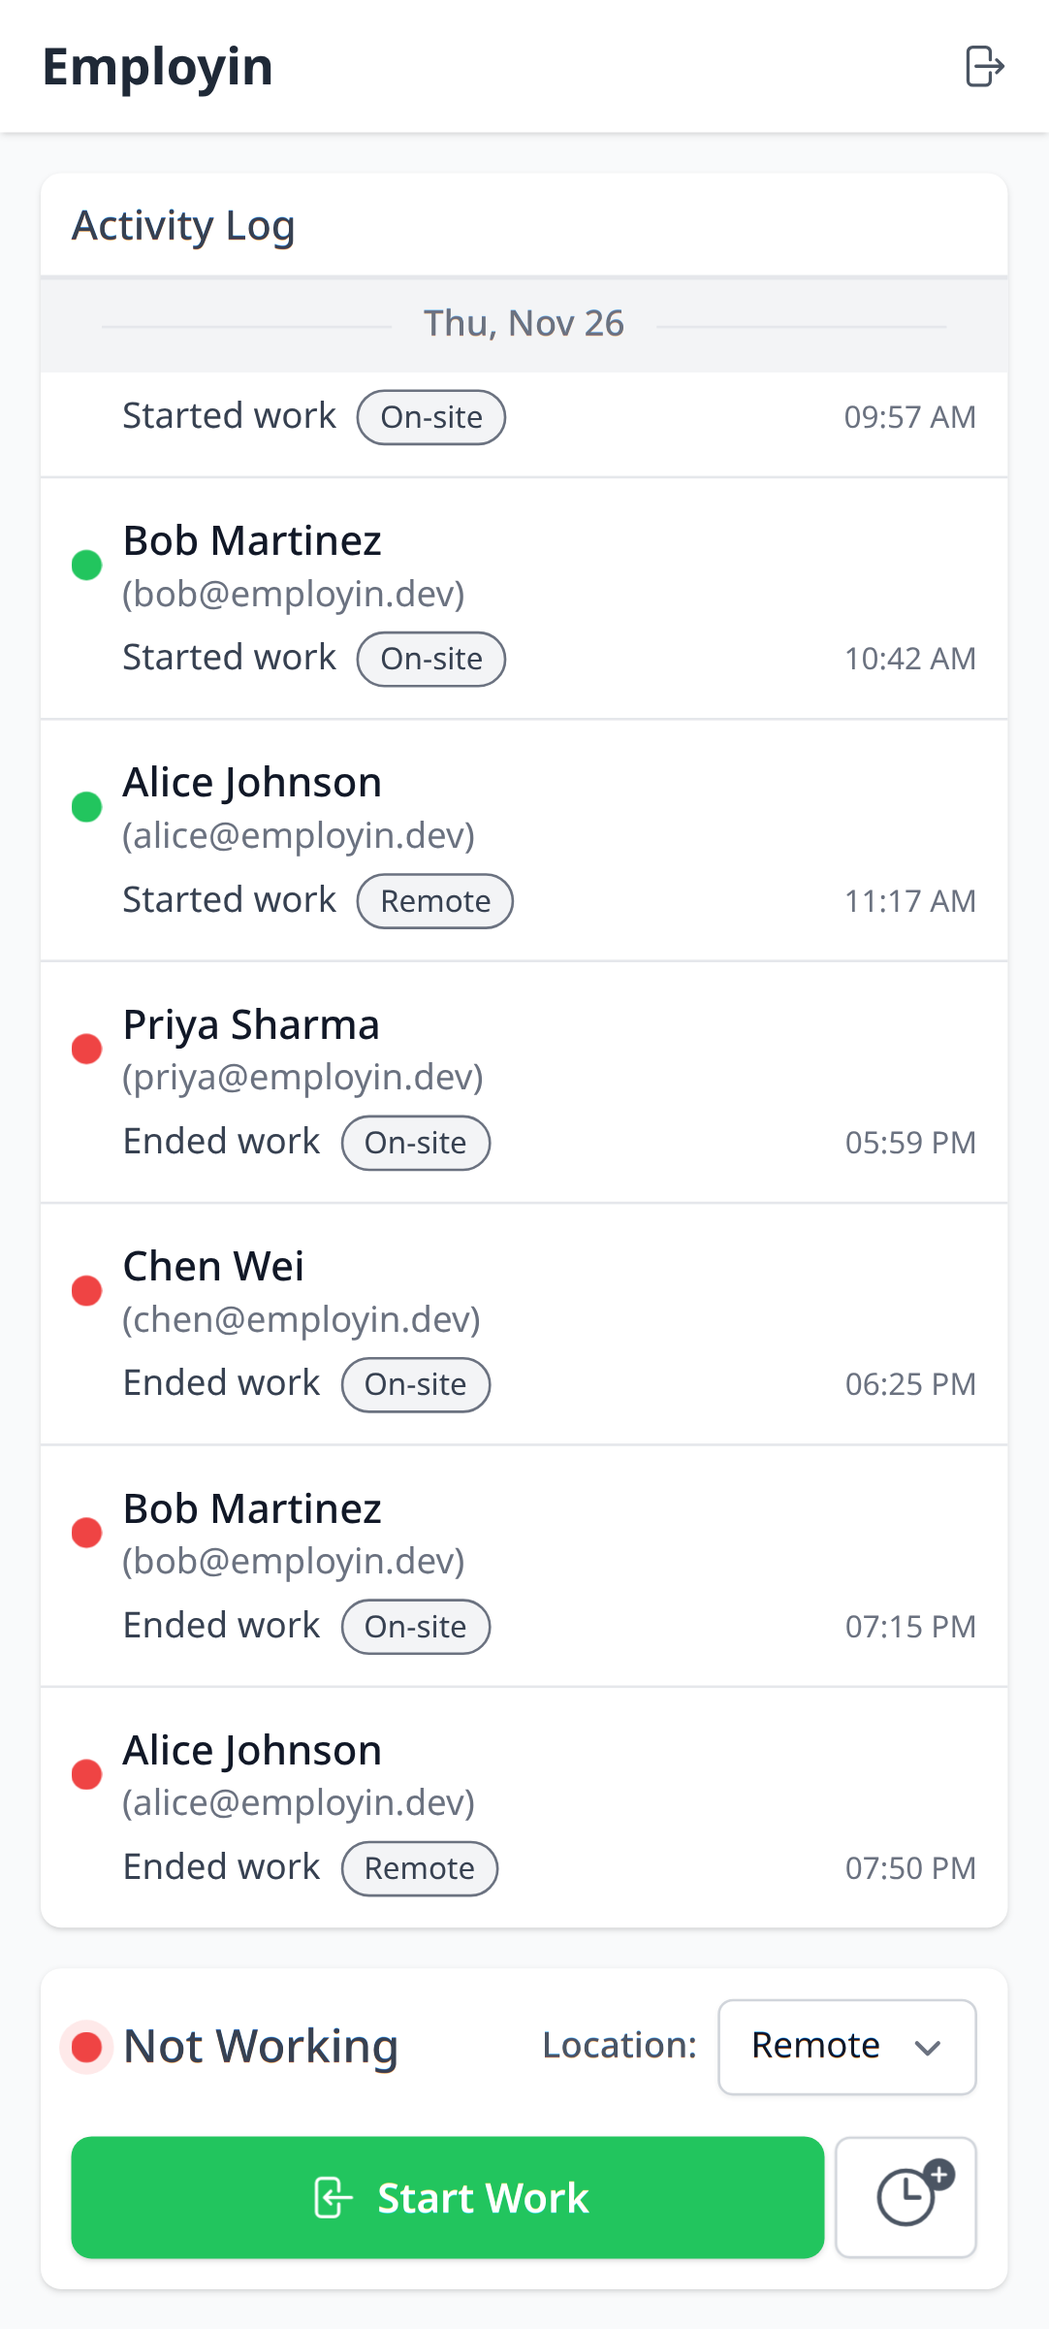
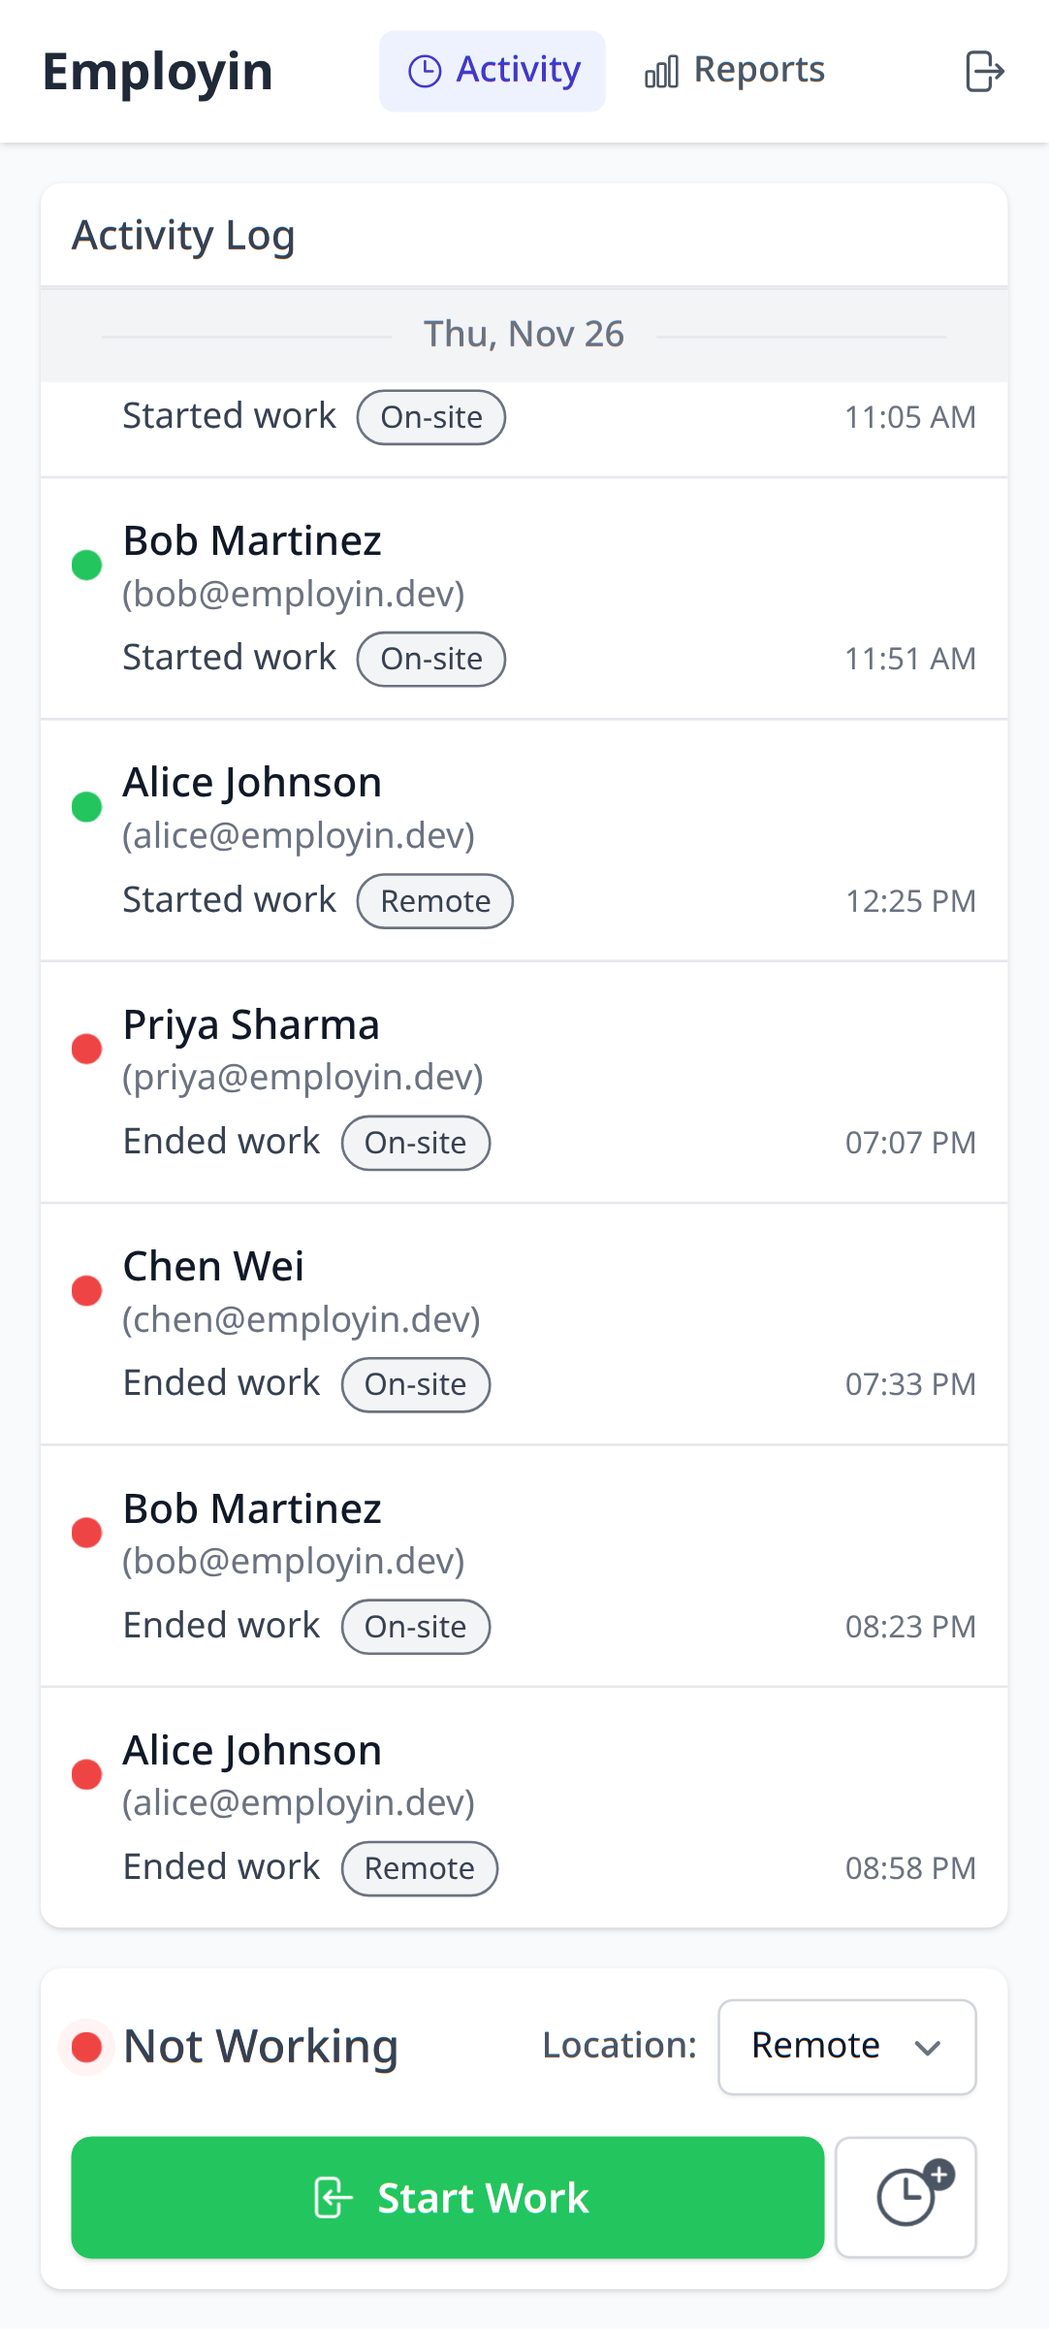
docs: document reports, session editing, rate limits, time zones and streams
- README: new features, Phoenix 1.8 / LiveView 1.2 stack, Credo and
  Dialyzer commands, a reports screenshot and refreshed app screenshots.
- ARCHITECTURE: Auth rules (rate limits, single-use tokens), session
  editing, IANA time zones, the reports algorithm, the stream-based log
  and the new broadcast messages.
- ROADMAP: move implemented items to a Done section; add follow-ups
  (distributed rate limiting, audit trail, roles, report extensions).

diff --git a/docs/ARCHITECTURE.md b/docs/ARCHITECTURE.md
@@ -11,35 +11,52 @@ lib/
 ├── employin/                       # domain
 │   ├── contexts/
 │   │   ├── events.ex               # Employin.Events: queries, commands, PubSub
-│   │   ├── events/event.ex         # schema + past-session form changeset
+│   │   ├── events/event.ex         # schema + session form changeset
 │   │   ├── users.ex                # Employin.Users
 │   │   └── users/user.ex           # schema, email/display-name validation
-│   ├── login_token.ex              # purpose-bound signed tokens + OTP
+│   ├── auth.ex                     # login rules: rate limits, single-use tokens
+│   ├── login_token.ex              # purpose-bound signed/encrypted tokens + OTP
+│   ├── rate_limit.ex               # Hammer (ETS) fixed-window limiter
+│   ├── reports.ex                  # worked time per user per local day
+│   ├── time_zones.ex               # IANA zone conversions (tz database)
 │   ├── mail_notifier.ex            # login email (HTML + text)
 │   ├── schema.ex                   # UUIDv7 primary keys, utc_datetime timestamps
 │   └── release.ex                  # `bin/migrate` for releases
 └── employin_web/                   # web
     ├── router.ex                   # live_sessions :guest / :authenticated
     ├── user_auth.ex                # plugs + on_mount hooks
-    ├── controllers/session_controller.ex
+    ├── controllers/
+    │   ├── session_controller.ex   # turns verified tokens into a session
+    │   └── report_controller.ex    # CSV export
     ├── components/
     │   ├── core_components.ex      # inputs, modal, flash, icon, spinner, status_dot
-    │   └── auth_components.ex      # auth_card, submit_button
+    │   ├── auth_components.ex      # auth_card, submit_button
+    │   └── layouts.ex              # root/app layouts + app_header navigation
     └── live/
-        ├── home/                   # HomeLive + HomeComponents
+        ├── home/                   # HomeLive, HomeComponents, ActivityLog (stream)
+        ├── reports/                # ReportsLive (week/month table)
         ├── login/                  # LoginLive (email → OTP)
         └── registration/           # RegistrationLive (display name)
 assets/js/
-├── app.js                          # LiveSocket, sends the browser's tz offset
+├── app.js                          # LiveSocket, sends the browser's IANA time zone
 └── hooks/                          # ActivityLog, OtpCountdown, AutoDismissFlash
 ```
 
 ## Authentication flow
 
-Login is passwordless and **stateless**: nothing is stored server-side until the
-session cookie is set. `Employin.LoginToken` signs tokens with `Phoenix.Token`.
+Login is passwordless. `Employin.LoginToken` signs tokens with `Phoenix.Token`.
 Each token is bound to a purpose by its salt, so a token issued for one step
-can't be replayed in another.
+can't be replayed in another. The only server-side state is in
+`Employin.Auth`, which adds:
+
+- **Rate limits** (`Employin.RateLimit`, Hammer on ETS): 5 login emails per
+  address per 15 minutes, and 5 code guesses per issued token per 5 minutes.
+  The keys are the email and the token, not the IP address, which would be
+  shared by everyone behind a reverse proxy. The limiter is node-local; a
+  multi-node deployment would need a shared backend such as Redis.
+- **Single-use links**: when a login link or post-registration token is
+  consumed, its SHA-256 goes into `used_login_tokens`, and later uses are
+  rejected. Rows older than the token lifetime are pruned on write.
 
 | Purpose         | Payload | Lifetime | Notes |
 |-----------------|---------|----------|-------|
@@ -60,12 +77,12 @@ sequenceDiagram
     L->>M: OTP + magic link (token signed with secret<>otp)
     alt types the code
         U->>L: OTP
-        L->>L: verify_otp (instant feedback)
+        L->>L: Auth.verify_code (instant feedback, counts an attempt)
         L->>S: POST /login/verify (phx-trigger-action)
     else clicks the link
         U->>S: GET /login/verify?token&otp
     end
-    S->>S: verify_otp
+    S->>S: Auth.consume_code (verify + mark used)
     alt existing user
         S-->>U: session cookie, redirect /
     else new user
@@ -100,14 +117,20 @@ whether the user is working.
   event without a location `Event.default_tag/0` (Remote). The UI selects have
   no empty option and pre-select the user's last used location.
 - **Past sessions**: `Events.create_work_session/4` inserts a `joined`/`left`
-  pair after `slot_available?/3` checks three things:
+  pair after `slot_available?/4` checks three things:
   - no events of the user fall inside the range,
   - the event before the range is a `left` (or there is none),
   - the event after the range is a `joined` (or there is none).
-  `Event.session_form_changeset/3` already checks that the end is after the start
+  `Event.session_form_changeset/4` already checks that the end is after the start
   and not in the future.
+- **Editing and deleting**: users manage their own *sessions*, not single
+  events, so the alternation can't break. `get_work_session/2` finds the pair
+  around an event (the `left` is `nil` for the session in progress).
+  `update_work_session/5` reruns the slot check with the session's own events
+  excluded. `delete_work_session/2` removes both events, or cancels the running
+  session.
 
-Both commands run in a transaction that first takes
+All commands run in a transaction that first takes
 `pg_advisory_xact_lock(hashtext(user_id))`. Writes for one user are serialized,
 so two tabs can't both start a session or create overlapping ranges.
 
@@ -117,15 +140,33 @@ New rows arriving at the head don't shift pages the way `OFFSET` would.
 
 ### Timezones
 
-All times are stored in UTC. The browser sends its UTC offset in minutes as a
-LiveView connect param (`tz_offset`). It is used to:
+All times are stored in UTC. The browser sends its IANA zone
+(`Intl.DateTimeFormat().resolvedOptions().timeZone`) as a LiveView connect
+param. Unknown zones fall back to UTC. `Employin.TimeZones` converts with the
+`tz` database, so every date uses the offset in effect on that date (DST
+included). The zone is used to:
 
 - render times and day dividers in the viewer's local time,
-- default the past-session form to the viewer's local date,
-- convert the form's local date/time inputs to UTC.
+- default the session form to the viewer's local date and prefill it when editing,
+- convert the form's local date/time inputs to UTC. A time that doesn't exist
+  (clocks jump forward) moves past the gap, and a repeated time (clocks fall
+  back) uses its first occurrence,
+- compute reports per local day.
 
-A fixed offset ignores DST changes between "now" and the session's date. See the
-roadmap for IANA timezone support.
+## Reports
+
+`Employin.Reports.worked_time/4` builds a week or month table:
+
+1. Load the events inside the range, plus each user's last event before it
+   (so a session that started earlier is counted from the range start).
+2. Pair `joined → left` into sessions. The session in progress runs until now.
+3. Clip the sessions to the range, then split them at local midnight, so
+   overnight work counts towards both days.
+4. Sum the seconds per user per local date. All users are listed, sorted by name.
+
+`ReportsLive` shows the table (`/reports?period=week|month&date=…`) and reloads on
+every events broadcast. `ReportController` exports the same data as CSV, one row
+per person per day.
 
 ## Real-time updates
 
@@ -133,28 +174,44 @@ roadmap for IANA timezone support.
 flowchart LR
     A[HomeLive tab A] -- toggle / add session --> E[Employin.Events]
     E -- insert --> DB[(Postgres)]
-    E -- "broadcast {:new_event, event}" --> P((PubSub 'events'))
+    E -- "{:new_events, events} / {:events_changed, user_id}" --> P((PubSub 'events'))
     P --> A
     P --> B[HomeLive tab B]
     P --> C[HomeLive other users]
 ```
 
-`Employin.Events` broadcasts after a successful commit. The LiveView never
-broadcasts, so every write path behaves the same. Each `HomeLive`:
+`Employin.Events` broadcasts after a successful commit, once per command. The
+LiveView never broadcasts, so every write path behaves the same.
+`{:new_events, events}` carries new events. `{:events_changed, user_id}` signals
+that events were edited or deleted. Each `HomeLive`:
 
-- updates its status card when the event belongs to the current user. This keeps
-  several tabs of the same user in sync.
-- adds the event to the log if it falls inside the loaded window, marked as
-  `fresh?` so only live events get the highlight animation.
+- refreshes its status card when the change belongs to the current user. This
+  keeps several tabs of the same user in sync.
+- appends new events at the bottom (highlighted). If they land inside the loaded
+  window, or after an edit or delete, it reloads that window.
+
+### Activity log stream
+
+The log is a LiveView **stream** (`HomeLive.ActivityLog`), so the server keeps
+no per-connection list of events. The stream holds two kinds of items: events,
+and sticky day dividers (`date-<date>-<first event id>`). Only the edges of the
+loaded window are kept in assigns (time, id, local date, id of the first
+divider). That is enough to:
+
+- prepend an older page. If the page ends on the same day the log started with,
+  the old first divider is deleted, since the page brings its own,
+- append live events, adding a divider when one starts a new day,
+- reload the window (`list_events(since: oldest)`) when an event lands inside it.
 
 ## Frontend
 
 The UI is server-rendered with LiveView and styled with Tailwind:
 
 - **Function components**: `HomeComponents` renders the page pieces
-  (`app_header`, `activity_log`, `event_item`, `date_divider`, `status_card`,
-  `session_form`). `HomeLive` keeps only state and event handlers.
-  `AuthComponents` gives the login and registration pages a shared shell.
+  (`activity_log`, `event_item`, `date_divider`, `status_card`, `session_form`).
+  `HomeLive` keeps only state and event handlers. `Layouts.app_header` holds the
+  shared navigation, and `AuthComponents` gives the login and registration pages
+  a shared shell.
 - **Forms**: one `<.input>` component (from `CoreComponents`) gives every input
   the same styling, label and error handling, including disabled and error states.
 - **JS hooks** (`assets/js/hooks/`), kept small and single-purpose:
@@ -167,13 +224,20 @@ The UI is server-rendered with LiveView and styled with Tailwind:
 
 ## Testing
 
-- `test/employin/`: context tests. They cover token purposes and expiry, OTP
-  format, the alternation and overlap rules, keyset pagination, broadcasts and
-  the timezone conversion of the session form.
-- `test/employin_web/`: controller and LiveView tests. They walk through the full
-  login → registration → session flow (`follow_trigger_action`), the resend
-  throttle, start/end work, past sessions with overlap errors, live updates and
-  "load more".
+- `test/employin/`: context tests. They cover:
+  - token purposes and expiry, and the OTP format,
+  - rate limits and single-use tokens,
+  - the alternation and overlap rules, and editing and deleting sessions,
+  - keyset pagination and broadcasts,
+  - DST-aware time zone conversion,
+  - report splitting and clipping.
+- `test/employin_web/`: controller and LiveView tests. They cover:
+  - the full login → registration → session flow (`follow_trigger_action`),
+    including a refresh during the OTP step and the resend throttle,
+  - start/end work, and adding, editing and deleting sessions,
+  - live updates, stream order and day dividers after "load more",
+  - reports and CSV export.
 
 CI (`.github/workflows/ci.yml`) runs formatting, compilation with
-`--warnings-as-errors` and the test suite against Postgres.
+`--warnings-as-errors`, `credo --strict` and the test suite against Postgres.
+A separate job runs Dialyzer with cached PLTs.

diff --git a/README.md b/README.md
@@ -3,8 +3,8 @@
 [![CI](https://github.com/a-ovi/employin/actions/workflows/ci.yml/badge.svg)](https://github.com/a-ovi/employin/actions/workflows/ci.yml)
 
 Employin is a small real-time attendance tracker built with Elixir, Phoenix and LiveView.
-Team members record when they start and end work with a single click, add sessions they
-forgot to log, and see everyone's activity update live, with no page refreshes.
+Team members record when they start and end work with a single click, fix or add sessions
+they forgot to log, see everyone's activity update live, and export hours worked.
 
 ## Demo
 
@@ -13,15 +13,23 @@ forgot to log, and see everyone's activity update live, with no page refreshes.
   <img src="docs/images/modal.png" width="32%" alt="Form for adding a past work session" />
   <img src="docs/images/login.png" width="32%" alt="One-time password login step" />
 </div>
+<div align="center">
+  <img src="docs/images/reports.png" width="97%" alt="Weekly report of hours per person per day" />
+</div>
 
 ## Features
 
-- **One-click start/end of work**, tagged with a location (Remote / On-site).
-- **Real-time activity log** of all users, updated live over Phoenix PubSub.
-  Times are shown in each viewer's local timezone, and older entries load as you scroll up.
-- **Past work sessions:** add a session you forgot to log. Overlapping or
-  impossible ranges are rejected, and writes are serialized per user to avoid races.
+- **One-click start/end of work**, tagged with a location (Remote / On-site, defaulting
+  to the last one used).
+- **Real-time activity log** of all users, updated live over Phoenix PubSub and rendered
+  with LiveView streams. Times show in each viewer's own IANA timezone (DST-aware), and
+  older entries load as you scroll up.
+- **Manage your sessions:** add a session you forgot to log, or edit or delete your own.
+  Overlapping or impossible ranges are rejected, and writes are serialized per user.
+- **Reports:** hours per person per day for any week or month, split at local midnight,
+  with CSV export.
 - **Passwordless login:** a one-time password and a magic link are emailed to the user.
+  Links are single-use, and both sending codes and guessing them are rate-limited.
   New users pick a display name on their first login.
 - **Optional domain restriction:** only allow sign-ups from your company's email domain.
 
@@ -29,11 +37,11 @@ forgot to log, and see everyone's activity update live, with no page refreshes.
 
 | Layer    | Technology |
 |----------|------------|
-| Backend  | Elixir 1.18, Phoenix 1.7, Phoenix LiveView 1.0, Ecto |
+| Backend  | Elixir 1.18, Phoenix 1.8, Phoenix LiveView 1.2, Ecto, Hammer, tz |
 | Frontend | LiveView function components, Tailwind CSS, Heroicons, a few small JS hooks |
 | Database | PostgreSQL (`citext`, UUIDv7 primary keys) |
 | Email    | Swoosh (local mailbox in dev, SMTP / AWS SES in production) |
-| Tooling  | ExUnit + LiveViewTest, GitHub Actions CI, multi-stage Docker release |
+| Tooling  | ExUnit + LiveViewTest, Credo, Dialyzer, GitHub Actions CI, multi-stage Docker release |
 
 The design is described in [docs/ARCHITECTURE.md](docs/ARCHITECTURE.md), and
 planned improvements are in [docs/ROADMAP.md](docs/ROADMAP.md).
@@ -72,6 +80,8 @@ copy [`.envrc.example`](.envrc.example) to `.envrc` (it is git-ignored) and load
 mix test                          # unit, controller and LiveView tests
 mix format --check-formatted
 mix compile --warnings-as-errors
+mix credo --strict
+mix dialyzer                      # first run builds the PLT into priv/plts (slow)
 ```
 
 The same checks run on every push and pull request in GitHub Actions.

diff --git a/docs/ROADMAP.md b/docs/ROADMAP.md
@@ -2,37 +2,40 @@
 
 Ideas for taking Employin further, roughly ordered by value.
 
+## Done
+
+These items from earlier versions of this roadmap are implemented:
+
+- **Security:** rate-limited login codes (per address and per token), and
+  single-use login links.
+- **Dependencies:** all locked packages free of known advisories. Upgraded to
+  Phoenix 1.8 and LiveView 1.2.
+- **CI:** Credo (strict) and Dialyzer in CI.
+- **Sessions:** editing and deleting your own work sessions.
+- **Reports:** hours per person per day (week/month) with CSV export.
+- **Time zones:** IANA time zones with DST-aware conversions.
+- **Performance:** a LiveView stream for the activity log.
+
 ## Security & operations
 
-- **Rate limiting:** throttle OTP verification and login emails per email/IP
-  (e.g. with [Hammer](https://hex.pm/packages/hammer)). Today the resend
-  cooldown is enforced per LiveView, and `/login/verify` relies on the 5-minute
-  token lifetime alone.
-- **Single-use login links:** keep a short-lived record of consumed OTP tokens
-  so a link can't be reused within its lifetime.
-- **Dependency updates:** refresh `mix.lock` within the current version
-  constraints (`mix hex.audit` and `mix deps.get` report advisories for several
-  locked packages), then upgrade to Phoenix 1.8 / LiveView 1.1+ and Tailwind 4.
-- **Static analysis:** add Credo and Dialyzer to CI, and enable Dependabot for Mix
-  and GitHub Actions.
+- **Distributed rate limiting:** the Hammer ETS backend is per node. When
+  running a cluster, switch to a shared backend (e.g. Redis) or Hammer's
+  distributed backend.
+- **Dependabot** for Mix and GitHub Actions.
 - **Health check endpoint** for container orchestration.
+- **Tailwind 4** and Phoenix 1.8's newer layout convention (a `<Layouts.app>` function component instead of the app layout template).
 
 ## Product
 
-- **Edit and delete events** (with the same overlap rules), plus an audit trail.
-- **Reports:** hours per user per day/week/month, CSV export.
-- **Roles:** an admin role to manage users and see reports, and to put
+- **Audit trail:** record who changed or deleted a session, and when.
+- **Roles:** an admin role to manage users, edit anyone's sessions, and put
   LiveDashboard behind authentication in production.
 - **Filters** in the activity log (by user, location, date).
 - **Configurable locations** instead of the hard-coded Remote / On-site list.
+- **Reports:** per-location breakdown, overtime highlighting, custom date ranges.
 
-## Correctness & UX
+## UX
 
-- **IANA timezones:** send `Intl.DateTimeFormat().resolvedOptions().timeZone`
-  instead of a fixed UTC offset, and convert with a time zone database (`tz` /
-  `tzdata`). This makes past sessions across a DST change correct.
-- **LiveView streams** for the activity log, so the server doesn't keep the
-  loaded window in memory per connection.
 - **i18n:** route UI strings through Gettext, with locale-aware date/time formatting.
 - **Dark mode** and an accessibility pass (focus states, screen reader labels for status dots).
 - **PWA:** the web manifest exists, and a service worker would make the app installable.
